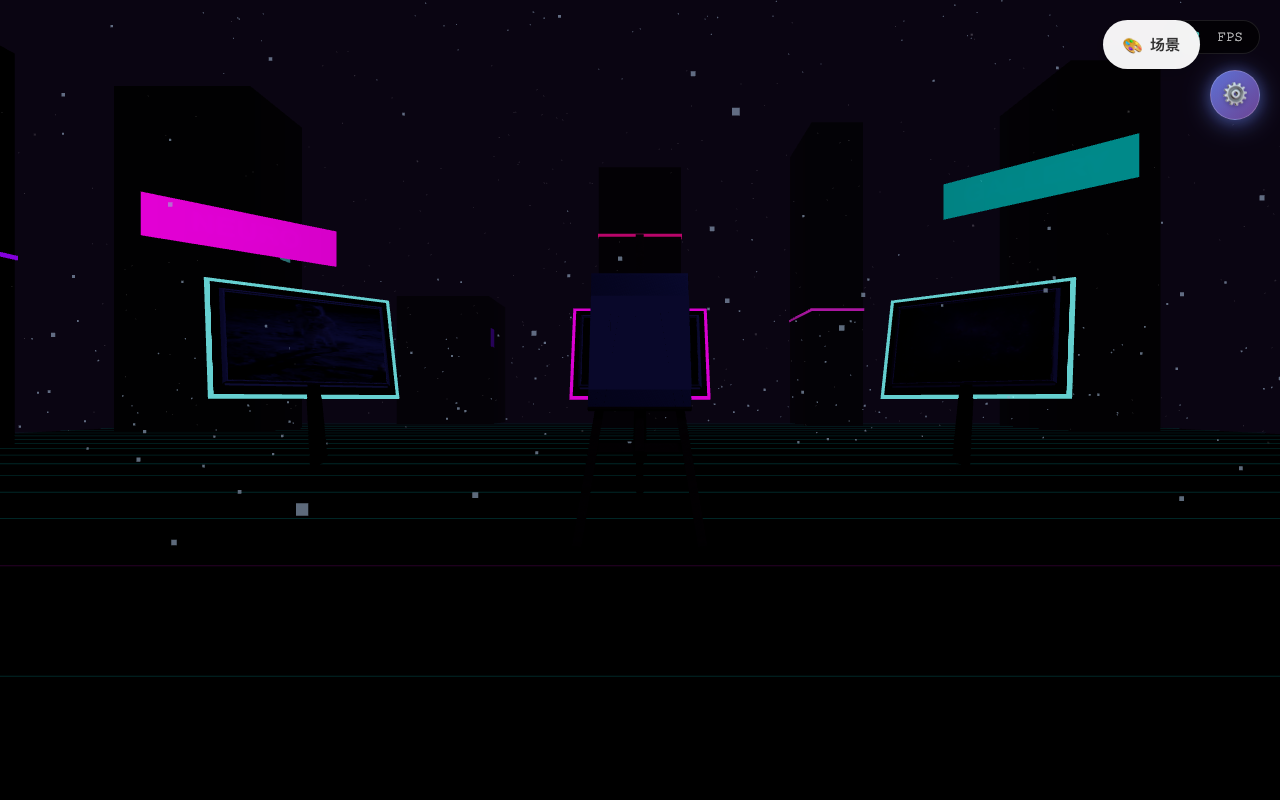
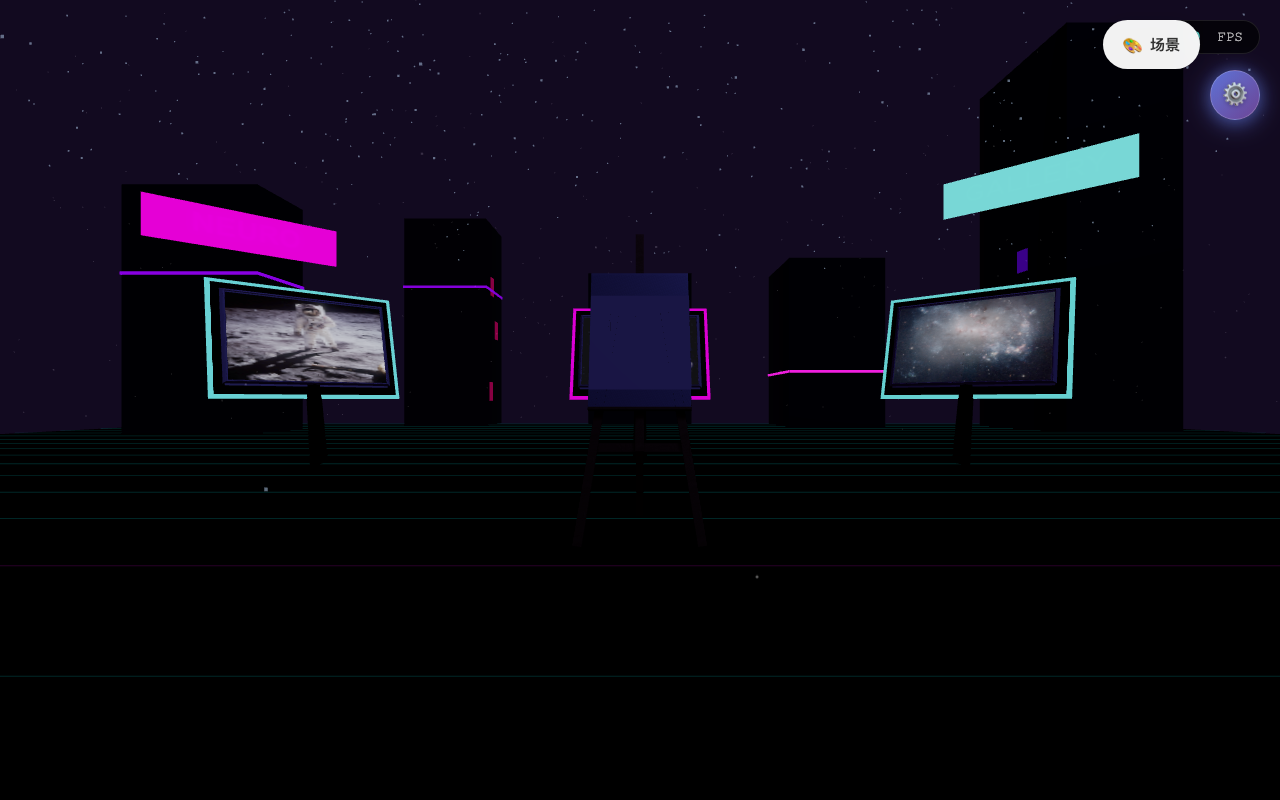
fix: self-lit paintings in dark scenes; brighten space/cyberpunk; mobile easel modal
- Paintings get emissiveMap + emissive glow when attached to non-gallery scenes,
  so artwork stays clearly visible in Space and Cyberpunk
- Space: brighter ambient/fill lights, planets get emissive glow
- Cyberpunk: fog pushed further (25-90), lighter buildings/ground, stronger ambient
- Easel generate modal: single-line title, full-width stacked buttons on mobile

diff --git a/src/Experience/World/Scenes/SpaceScene.js b/src/Experience/World/Scenes/SpaceScene.js
@@ -25,13 +25,13 @@ export default class SpaceScene extends BaseScene {
         const env = this.experience.world?.environment
         if (!env) return
 
-        env.sunLight.intensity = 0.8
+        env.sunLight.intensity = 1.2
         env.sunLight.color.setHex(0xaaaaff)
         env.sunLight.position.set(10, 20, 10)
-        env.fillLight.intensity = 0.4
-        env.fillLight.color.setHex(0x6060c0)
-        env.ambientLight.intensity = 0.7
-        env.ambientLight.color.setHex(0x2a2a5e)
+        env.fillLight.intensity = 0.6
+        env.fillLight.color.setHex(0x7070d0)
+        env.ambientLight.intensity = 1.0
+        env.ambientLight.color.setHex(0x3a3a6e)
 
         this.scene.environment = null
         this.scene.background = new THREE.Color('#050510')
@@ -138,7 +138,9 @@ export default class SpaceScene extends BaseScene {
         const planetMaterial = new THREE.MeshStandardMaterial({
             color: '#4a90d9',
             roughness: 0.7,
-            metalness: 0.2
+            metalness: 0.2,
+            emissive: '#1a3a6a',
+            emissiveIntensity: 0.6
         })
         const planet = new THREE.Mesh(planetGeometry, planetMaterial)
         planet.position.set(40, 10, -30)
@@ -160,7 +162,9 @@ export default class SpaceScene extends BaseScene {
         const moonGeometry = new THREE.SphereGeometry(2, 16, 16)
         const moonMaterial = new THREE.MeshStandardMaterial({
             color: '#aaaaaa',
-            roughness: 0.9
+            roughness: 0.9,
+            emissive: '#555555',
+            emissiveIntensity: 0.5
         })
         const moon = new THREE.Mesh(moonGeometry, moonMaterial)
         moon.position.set(55, 5, -35)
@@ -170,7 +174,9 @@ export default class SpaceScene extends BaseScene {
         const marsGeometry = new THREE.SphereGeometry(4, 24, 24)
         const marsMaterial = new THREE.MeshStandardMaterial({
             color: '#d94a4a',
-            roughness: 0.8
+            roughness: 0.8,
+            emissive: '#6a1a1a',
+            emissiveIntensity: 0.6
         })
         const mars = new THREE.Mesh(marsGeometry, marsMaterial)
         mars.position.set(-50, 20, 40)

diff --git a/src/Experience/World/Scenes/CyberpunkScene.js b/src/Experience/World/Scenes/CyberpunkScene.js
@@ -24,16 +24,16 @@ export default class CyberpunkScene extends BaseScene {
         const env = this.experience.world?.environment
         if (!env) return
 
-        env.sunLight.intensity = 0.5
-        env.sunLight.color.setHex(0x6666cc)
-        env.fillLight.intensity = 0.3
-        env.fillLight.color.setHex(0x440066)
-        env.ambientLight.intensity = 0.8
-        env.ambientLight.color.setHex(0x2a1a3e)
+        env.sunLight.intensity = 0.7
+        env.sunLight.color.setHex(0x7777dd)
+        env.fillLight.intensity = 0.4
+        env.fillLight.color.setHex(0x550088)
+        env.ambientLight.intensity = 1.1
+        env.ambientLight.color.setHex(0x3a2a4e)
 
         this.scene.environment = null
-        this.scene.background = new THREE.Color('#0a0512')
-        this.scene.fog = new THREE.Fog('#0a0512', 15, 60)
+        this.scene.background = new THREE.Color('#120a20')
+        this.scene.fog = new THREE.Fog('#120a20', 25, 90)
         if (env.environmentMap.updateMaterials) {
             env.environmentMap.updateMaterials()
         }
@@ -46,9 +46,9 @@ export default class CyberpunkScene extends BaseScene {
     setGround() {
         const groundGeometry = new THREE.PlaneGeometry(60, 60)
         const groundMaterial = new THREE.MeshStandardMaterial({
-            color: '#1a1a2e',
-            roughness: 0.2,
-            metalness: 0.8
+            color: '#2a2a40',
+            roughness: 0.3,
+            metalness: 0.7
         })
         const ground = new THREE.Mesh(groundGeometry, groundMaterial)
         ground.rotation.x = -Math.PI * 0.5
@@ -64,9 +64,11 @@ export default class CyberpunkScene extends BaseScene {
 
     setBuildings() {
         const buildingMaterial = new THREE.MeshStandardMaterial({
-            color: '#0f0f1a',
-            roughness: 0.8,
-            metalness: 0.3
+            color: '#2a2a3e',
+            roughness: 0.7,
+            metalness: 0.4,
+            emissive: '#12121f',
+            emissiveIntensity: 0.4
         })
 
         const neonColors = ['#ff00ff', '#00ffff', '#ff0080', '#8000ff', '#00ff80']

diff --git a/src/Experience/World/Paintings.js b/src/Experience/World/Paintings.js
@@ -50,6 +50,7 @@ export default class Paintings {
             `/${paintingData.imageFile}`,
             (texture) => {
                 canvasMaterial.map = texture
+                canvasMaterial.emissiveMap = texture
                 canvasMaterial.needsUpdate = true
                 canvasMaterial.color.setHex(0xffffff)
             },
@@ -63,6 +64,7 @@ export default class Paintings {
         canvas.name = `painting-${paintingData.title?.replace(/\s+/g, '-') || 'untitled'}`
 
         group.add(canvas)
+        group.userData.canvas = canvas
         this.paintingMeshes.push(canvas)
 
         const spotLight = new THREE.SpotLight(0xffffff, 80, 10, Math.PI * 0.23, 0.3, 2)
@@ -134,6 +136,14 @@ export default class Paintings {
             group.position.copy(slotWorldPos).add(forward)
             group.quaternion.copy(slotWorldQuat)
 
+            // Make the artwork self-lit so it stays visible in dark scenes
+            const canvas = group.userData.canvas
+            if (canvas) {
+                canvas.material.emissive.setHex(0xffffff)
+                canvas.material.emissiveIntensity = 0.85
+                canvas.material.needsUpdate = true
+            }
+
             const spotLight = this.spotlights[index]
             if (spotLight) {
                 spotLight.visible = false
@@ -149,6 +159,13 @@ export default class Paintings {
             this.scene.add(group)
             group.position.set(...group.userData.defaultPosition)
             group.rotation.set(0, group.userData.defaultRotation, 0)
+
+            const canvas = group.userData.canvas
+            if (canvas) {
+                canvas.material.emissive.setHex(0x000000)
+                canvas.material.emissiveIntensity = 0
+                canvas.material.needsUpdate = true
+            }
         })
     }
 

diff --git a/src/style.css b/src/style.css
@@ -769,6 +769,41 @@ html {
     letter-spacing: 0.1em;
 }
 
+/* Easel modal — mobile */
+@media (max-width: 768px) {
+    .easel-modal-dialog {
+        padding: 1.25rem;
+        width: calc(100% - 32px);
+        border-radius: 16px;
+    }
+
+    .easel-modal-title {
+        font-size: 1.35rem;
+        letter-spacing: 0.03em;
+        white-space: nowrap;
+    }
+
+    .easel-modal-description {
+        font-size: 0.9rem;
+    }
+
+    #prompt-input {
+        height: 90px;
+        font-size: 15px;
+    }
+
+    .easel-modal-buttons {
+        flex-direction: column;
+        gap: 10px;
+        margin-top: 18px;
+    }
+
+    .easel-modal-btn {
+        width: 100%;
+        padding: 14px;
+    }
+}
+
 .easel-modal-description {
     color: #666;
     text-align: center;
